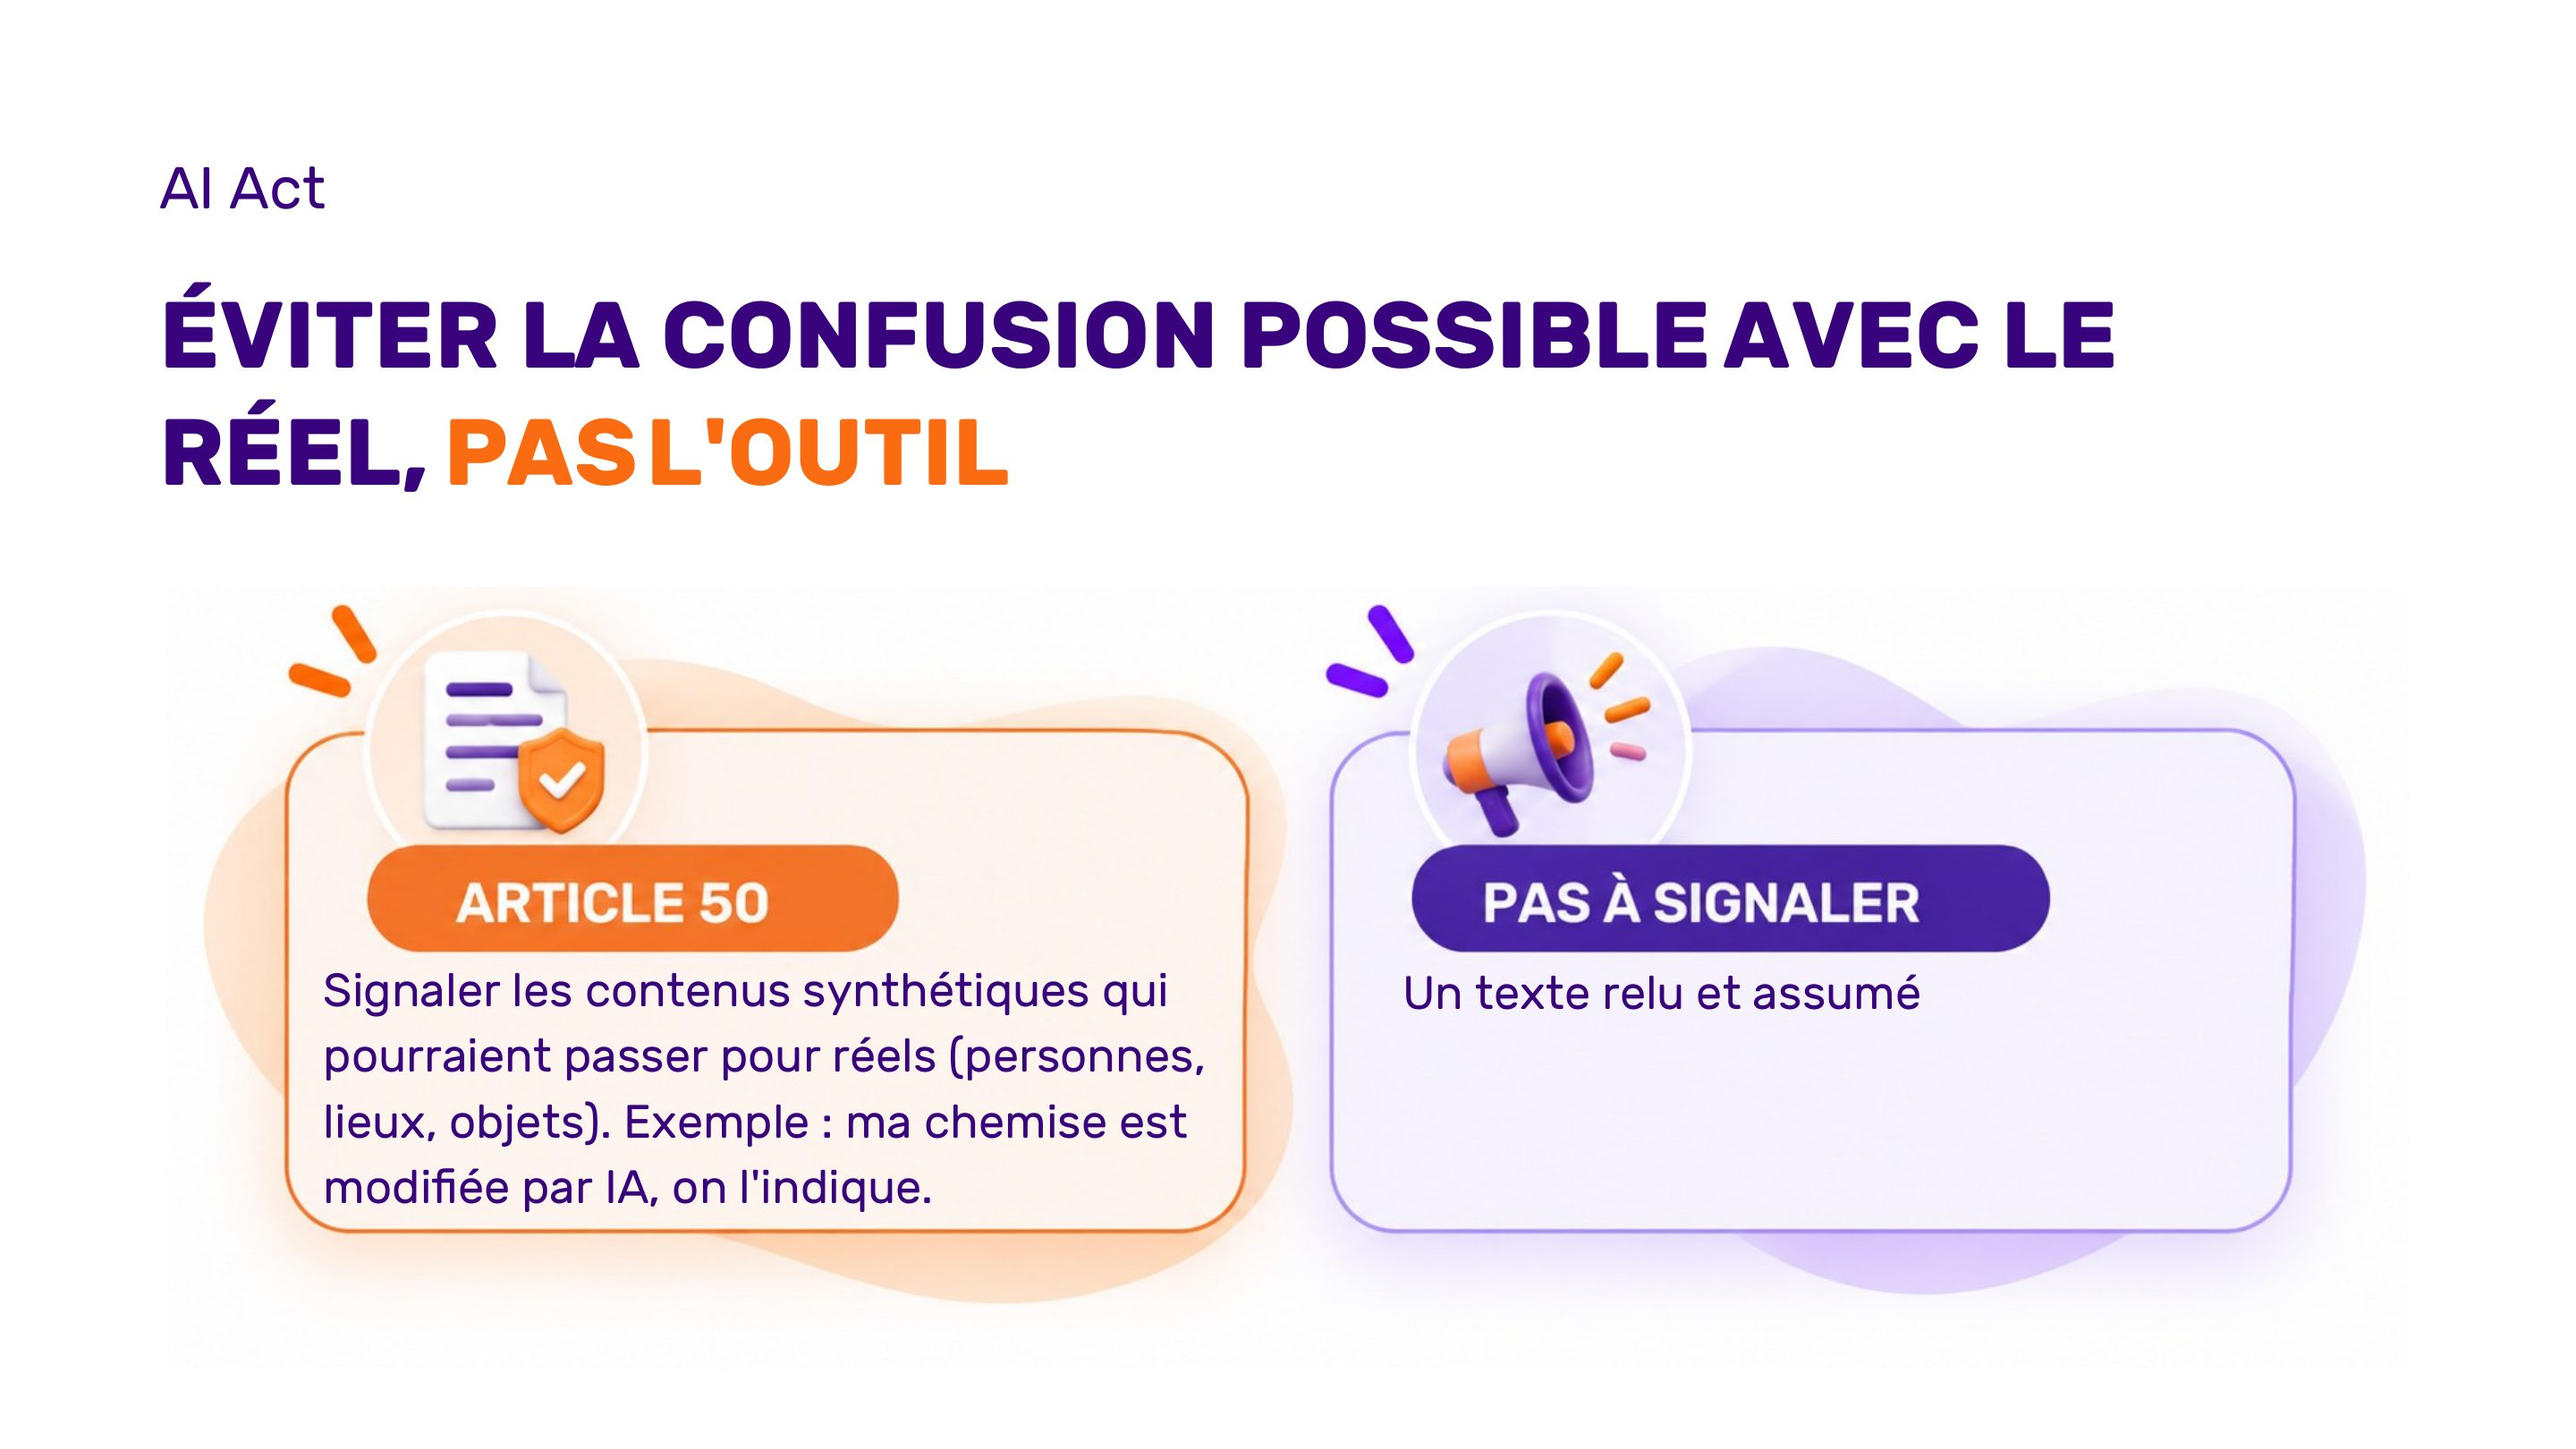
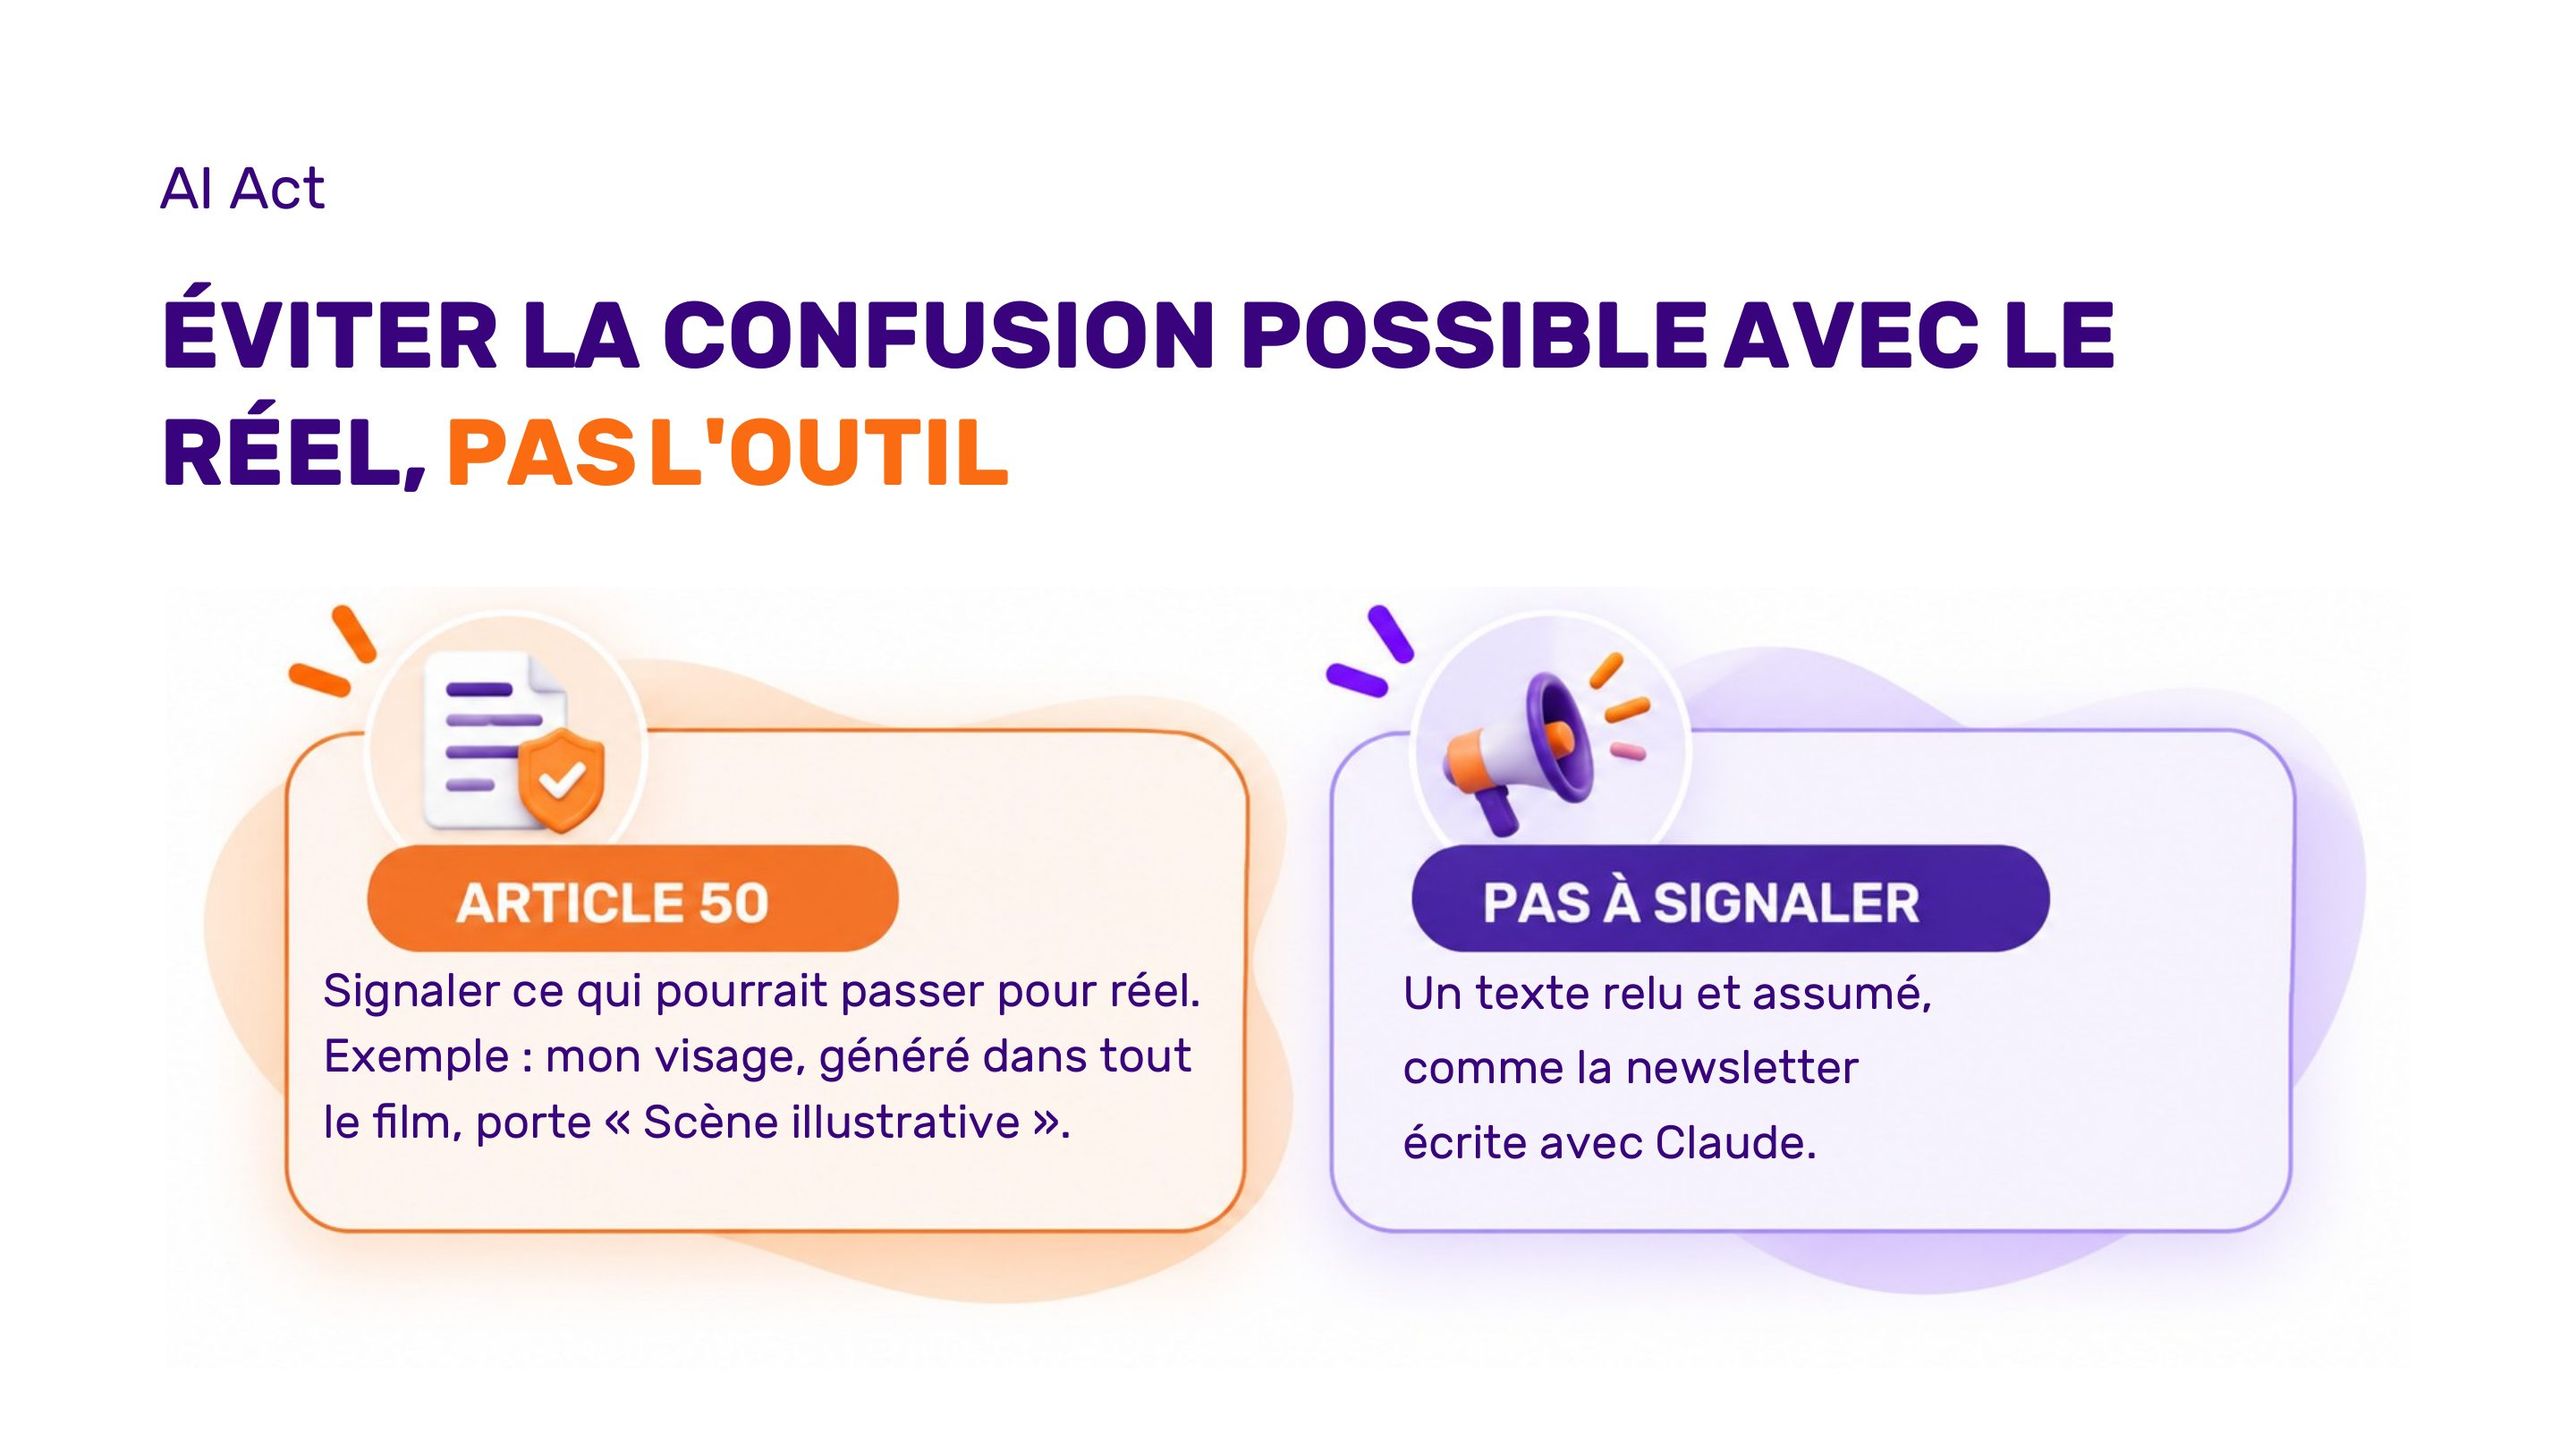
AI Flash : exemple AI Act tiré du film (visage généré), slide 56

Changed region(s): [[0.125, 0.679, 0.4688, 0.8333], [0.5312, 0.7099, 0.7188, 0.8025]]

diff --git a/ai-flash-cefora/speaker/index.html b/ai-flash-cefora/speaker/index.html
@@ -497,7 +497,7 @@
     <h2 class="sr-only">UNE CONVERSATION, UNE SKILL</h2>
     <img class="bg" src="../images/s-14.jpg" alt="">
     <video class="vid" style="left:7.896%;top:19.442%;width:84.208%;height:72.980%" src="../videos/ba22f49ee8f0.mp4" poster="../posters/c02709779ed3.jpg" controls playsinline preload="none"></video>
-    <div class="notes"><p>Screencast muet (1 min 40). 1. Une conversation normale : la newsletter Airplan d&#x27;octobre. 2. « Transforme ce qu&#x27;on vient de faire en skill » : Claude utilise skill-creator et écrit la recette (structure, ton, longueur, appel à l&#x27;action). 3. Un clic pour l&#x27;enregistrer. 4. Son contenu : un fichier texte lisible, qu&#x27;on peut corriger. 5. Le mois suivant, nouvelle conversation : je tape /newsletter-airplan et les nouveautés, la recette se rejoue. C&#x27;est la différence entre un prompt et une méthode.</p></div>
+    <div class="notes"><p>Article 50 : ce qui pourrait passer pour réel doit être signalé. Nos exemples : dans le film de 54 secondes, mon visage est généré du début au logo, la mention « Scène illustrative » reste à l&#x27;écran tout du long. Le mème des trois fondateurs dans la voiture : visages réels générés, avec l&#x27;accord des trois et l&#x27;étiquette « générée par IA ». La voix off du vlog est une voix de synthèse. La fin filmée au téléphone porte « Vêtements modifiés par IA ». À l&#x27;inverse, un texte relu et assumé (la newsletter écrite avec Claude, relue avant l&#x27;envoi) n&#x27;a pas à être signalé.</p></div>
   </section>
 
   <section class="slide" data-title="OUTIL UTILISÉ">
